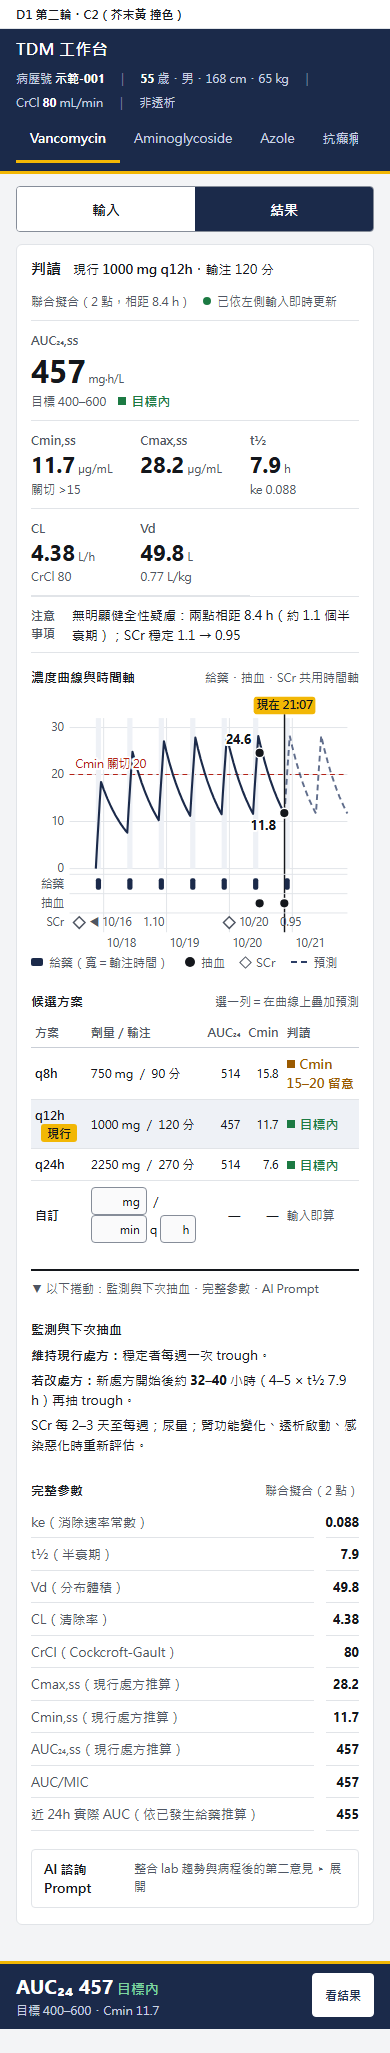
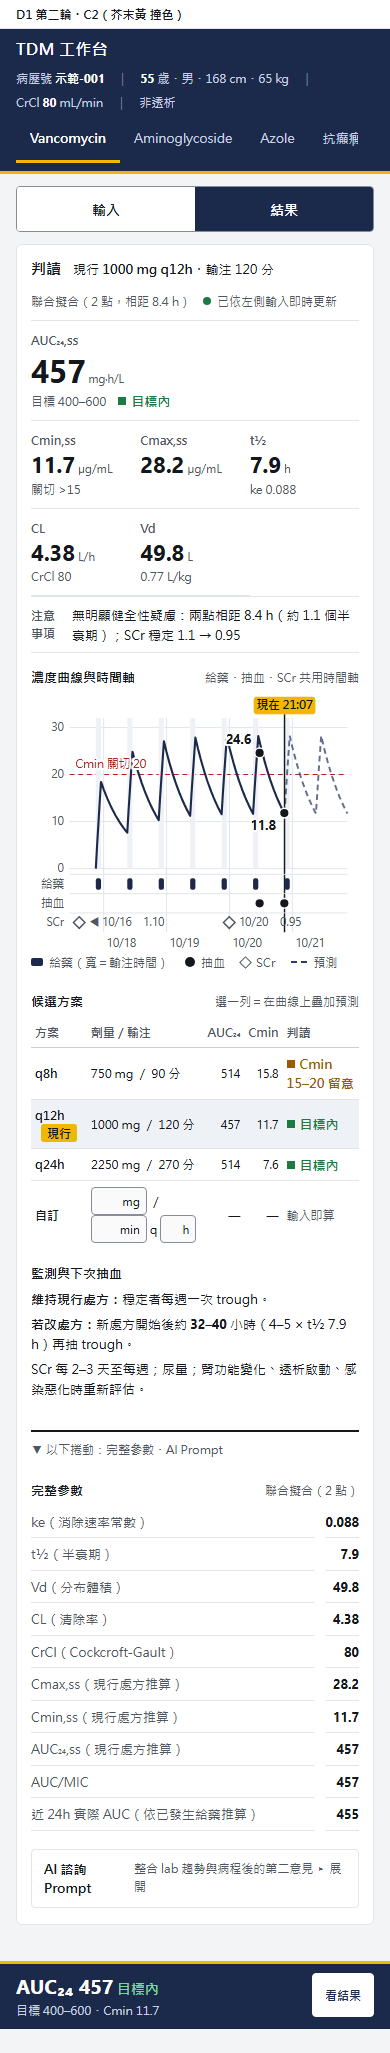
REDESIGN D1 第二輪：C2 以 24 吋（1920×1080）為主要目標
- 寬度 ≥1600 時曲線與候選方案並排，監測與下次抽血進到首屏
- 新增 1920×940 截圖；PRODUCT.md 改正主要螢幕為 24 吋

Changed region(s): [[0.0615, 0.5923, 0.8923, 0.717], [0.8923, 0.6858, 0.9231, 0.717]]

diff --git a/docs/direction/C2a.html b/docs/direction/C2a.html
@@ -134,6 +134,16 @@ p.tx{font-size:13px;margin-bottom:6px}
 .chart .dose{fill:var(--navy)}
 .chart .scr{fill:#fff;stroke:var(--ink-soft);stroke-width:1.5}
 
+.wide{display:none}
+/* ---- 24 吋（1920×1080）為主要目標：版面用滿寬度，曲線與候選方案並排 ---- */
+@media (min-width:1600px){
+  .app{max-width:1920px;grid-template-columns:540px minmax(0,1fr);gap:28px}
+  .pair{display:grid;grid-template-columns:minmax(0,1.15fr) minmax(0,1fr);gap:28px;align-items:start}
+  .tbl td.t{white-space:nowrap}
+  .dsk{display:none}.wide{display:block}
+  .nums .key .v{font-size:38px}
+  .nums .v{font-size:24px}
+}
 .seg,.m-bar{display:none}
 @media (max-width:980px){
   .app{grid-template-columns:minmax(0,1fr);padding:16px}
@@ -223,7 +233,7 @@ p.tx{font-size:13px;margin-bottom:6px}
     <div><div class="l">Vd</div><div class="v">49.8<small>L</small></div><div class="t">0.77 L/kg</div></div>
   </div>
   <div class="flagline"><b>注意事項</b><span>無明顯健全性疑慮：兩點相距 8.4 h（約 1.1 個半衰期）；SCr 穩定 1.1 → 0.95</span></div>
-  <div class="sec"><h4>濃度曲線與時間軸<span>給藥・抽血・SCr 共用時間軸</span></h4>
+  <div class="pair"><div class="sec"><h4>濃度曲線與時間軸<span>給藥・抽血・SCr 共用時間軸</span></h4>
     <div class="dsk"><svg class="chart" viewBox="0 0 820 268" width="100%" role="img" aria-label="濃度－時間曲線與給藥、抽血、SCr 時間軸">
 <line class="grid" x1="134.2" x2="134.2" y1="26" y2="248"/>
 <text class="ax" x="134.2" y="263" dx="3">10/18</text>
@@ -278,6 +288,60 @@ p.tx{font-size:13px;margin-bottom:6px}
 <text class="ax" x="50.0" y="242.0" dx="10">◀ 10/16　1.10</text>
 <path class="scr" d="M481.2 232.0 l6 6 l-6 6 l-6 -6 z"/>
 <text class="ax" x="481.2" y="242.0" dx="10">10/20　0.95</text>
+</svg></div><div class="wide"><svg class="chart" viewBox="0 0 656 300" width="100%" role="img" aria-label="濃度－時間曲線與給藥、抽血、SCr 時間軸">
+<line class="grid" x1="114.1" x2="114.1" y1="26" y2="280"/>
+<text class="ax" x="114.1" y="295" dx="3">10/18</text>
+<line class="grid" x1="250.8" x2="250.8" y1="26" y2="280"/>
+<text class="ax" x="250.8" y="295" dx="3">10/19</text>
+<line class="grid" x1="387.6" x2="387.6" y1="26" y2="280"/>
+<text class="ax" x="387.6" y="295" dx="3">10/20</text>
+<line class="grid" x1="524.3" x2="524.3" y1="26" y2="280"/>
+<text class="ax" x="524.3" y="295" dx="3">10/21</text>
+<line class="grid" x1="40" x2="644" y1="214.0" y2="214.0"/>
+<text class="ax" x="34" y="218.0" text-anchor="end">0</text>
+<line class="grid" x1="40" x2="644" y1="155.2" y2="155.2"/>
+<text class="ax" x="34" y="159.2" text-anchor="end">10</text>
+<line class="grid" x1="40" x2="644" y1="96.5" y2="96.5"/>
+<text class="ax" x="34" y="100.5" text-anchor="end">20</text>
+<line class="grid" x1="40" x2="644" y1="37.8" y2="37.8"/>
+<text class="ax" x="34" y="41.8" text-anchor="end">30</text>
+<line class="ref" x1="40" x2="644" y1="96.5" y2="96.5"/>
+<rect class="inf" x="97.0" y="26" width="11.4" height="188.0"/>
+<rect class="inf" x="165.4" y="26" width="11.4" height="188.0"/>
+<rect class="inf" x="233.7" y="26" width="11.4" height="188.0"/>
+<rect class="inf" x="302.1" y="26" width="11.4" height="188.0"/>
+<rect class="inf" x="370.5" y="26" width="11.4" height="188.0"/>
+<rect class="inf" x="438.9" y="26" width="11.4" height="188.0"/>
+<rect class="inf" x="507.2" y="26" width="11.4" height="188.0"/>
+<polyline class="curve" points="97.0,214.0 99.8,185.1 102.7,157.5 105.5,131.1 108.4,105.8 111.2,110.5 114.1,114.9 116.9,119.2 119.8,123.3 122.6,127.2 125.5,130.9 128.3,134.5 131.2,137.9 134.0,141.2 136.9,144.3 139.7,147.3 142.6,150.2 145.4,152.9 148.3,155.6 151.1,158.1 154.0,160.5 156.8,162.8 159.7,165.0 162.5,167.1 165.4,169.1 168.2,142.2 171.1,116.4 173.9,91.8 176.8,68.2 179.6,74.4 182.5,80.4 185.3,86.2 188.2,91.7 191.0,97.0 193.8,102.0 196.7,106.8 199.5,111.4 202.4,115.8 205.2,120.1 208.1,124.1 210.9,128.0 213.8,131.7 216.6,135.2 219.5,138.6 222.3,141.8 225.2,144.9 228.0,147.9 230.9,150.8 233.7,153.5 236.6,127.2 239.4,102.1 242.3,78.1 245.1,55.1 248.0,61.9 250.8,68.4 253.7,74.7 256.5,80.7 259.4,86.4 262.2,91.9 265.1,97.2 267.9,102.2 270.8,107.0 273.6,111.6 276.5,116.0 279.3,120.2 282.2,124.3 285.0,128.1 287.9,131.8 290.7,135.4 293.6,138.7 296.4,142.0 299.3,145.1 302.1,148.0 305.0,122.0 307.8,97.1 310.7,73.3 313.5,50.5 316.4,57.5 319.2,64.3 322.1,70.7 324.9,76.9 327.8,82.8 330.6,88.4 333.5,93.8 336.3,99.0 339.2,103.9 342.0,108.7 344.8,113.2 347.7,117.5 350.5,121.7 353.4,125.7 356.2,129.5 359.1,133.1 361.9,136.6 364.8,139.9 367.6,143.1 370.5,146.2 373.3,120.2 376.2,95.4 379.0,71.6 381.9,48.9 384.7,56.0 387.6,62.8 390.4,69.3 393.3,75.5 396.1,81.5 399.0,87.2 401.8,92.7 404.7,97.9 407.5,102.9 410.4,107.7 413.2,112.2 416.1,116.6 418.9,120.8 421.8,124.8 424.6,128.6 427.5,132.3 430.3,135.8 433.2,139.2 436.0,142.4 438.9,145.5 441.7,119.6 444.6,94.8 447.4,71.1 450.3,48.4 453.1,55.5 456.0,62.3 458.8,68.8 461.7,75.1 464.5,81.1 467.4,86.8 470.2,92.3 473.1,97.5 475.9,102.5 478.8,107.3 481.6,111.9 484.5,116.3 487.3,120.5 490.2,124.5 493.0,128.4 495.8,132.0 498.7,135.6 501.5,138.9 504.4,142.2 507.2,145.3"/>
+<polyline class="pred" points="507.2,145.3 510.1,119.4 512.9,94.6 515.8,70.9 518.6,48.2 521.5,55.3 524.3,62.1 527.2,68.7 530.0,74.9 532.9,80.9 535.7,86.6 538.6,92.1 541.4,97.4 544.3,102.4 547.1,107.2 550.0,111.8 552.8,116.2 555.7,120.4 558.5,124.4 561.4,128.3 564.2,131.9 567.1,135.5 569.9,138.9 572.8,142.1 575.6,145.2 578.5,119.3 581.3,94.5 584.2,70.8 587.0,48.1 589.9,55.2 592.7,62.1 595.6,68.6 598.4,74.9 601.3,80.9 604.1,86.6 607.0,92.1 609.8,97.3 612.7,102.3 615.5,107.1 618.4,111.7 621.2,116.1 624.1,120.3 626.9,124.4 629.8,128.2 632.6,131.9 635.5,135.4 638.3,138.8 641.2,142.1 644.0,145.2"/>
+<text class="reft" x="46" y="89.5">Cmin 關切 20</text>
+<line class="now" x1="507.2" x2="507.2" y1="22" y2="280"/>
+<rect class="nowchip" x="475.2" y="4" width="64" height="18" rx="3"/>
+<text class="nowt" x="507.2" y="17" text-anchor="middle">現在 21:07</text>
+<circle class="lvl" cx="453.1" cy="69.5" r="5"/>
+<text class="lvlt" x="444.1" y="60.5" text-anchor="end">24.6</text>
+<circle class="lvl" cx="506.8" cy="144.7" r="5"/>
+<text class="lvlt" x="497.8" y="162.7" text-anchor="end">11.8</text>
+<line class="grid" x1="40" x2="644" y1="220" y2="220"/>
+<text class="ax" x="34" y="234" text-anchor="end">給藥</text>
+<line class="grid" x1="40" x2="644" y1="240" y2="240"/>
+<text class="ax" x="34" y="254" text-anchor="end">抽血</text>
+<line class="grid" x1="40" x2="644" y1="260" y2="260"/>
+<text class="ax" x="34" y="274" text-anchor="end">SCr</text>
+<rect class="dose" x="97.0" y="224.0" width="11.4" height="12" rx="2"/>
+<rect class="dose" x="165.4" y="224.0" width="11.4" height="12" rx="2"/>
+<rect class="dose" x="233.7" y="224.0" width="11.4" height="12" rx="2"/>
+<rect class="dose" x="302.1" y="224.0" width="11.4" height="12" rx="2"/>
+<rect class="dose" x="370.5" y="224.0" width="11.4" height="12" rx="2"/>
+<rect class="dose" x="438.9" y="224.0" width="11.4" height="12" rx="2"/>
+<rect class="dose" x="507.2" y="224.0" width="11.4" height="12" rx="2"/>
+<circle class="lvl" cx="453.1" cy="250.0" r="5"/>
+<circle class="lvl" cx="506.8" cy="250.0" r="5"/>
+<path class="scr" d="M50.0 264.0 l6 6 l-6 6 l-6 -6 z"/>
+<text class="ax" x="50.0" y="274.0" dx="10">◀ 10/16　1.10</text>
+<path class="scr" d="M387.0 264.0 l6 6 l-6 6 l-6 -6 z"/>
+<text class="ax" x="387.0" y="274.0" dx="10">10/20　0.95</text>
 </svg></div><div class="mob" style="display:none"><svg class="chart" viewBox="0 0 340 268" width="100%" role="img" aria-label="濃度－時間曲線與給藥、抽血、SCr 時間軸">
 <line class="grid" x1="75.3" x2="75.3" y1="26" y2="248"/>
 <text class="ax" x="75.3" y="263" dx="3">10/18</text>
@@ -336,12 +400,12 @@ p.tx{font-size:13px;margin-bottom:6px}
     <div class="legend"><span><i class="lg-bar"></i>給藥（寬＝輸注時間）</span><span><i class="lg-dot"></i>抽血</span><span><i class="lg-dia"></i>SCr</span><span><i class="lg-dash"></i>預測</span></div></div>
   <div class="sec"><h4>候選方案<span>選一列＝在曲線上疊加預測</span></h4>
     <div style="overflow-x:auto"><table class="tbl"><tr><th>方案</th><th>劑量／輸注</th><th>AUC₂₄</th><th>Cmin</th><th class="hm">Cmax</th><th>判讀</th></tr><tr class=""><td class="t"><b>q8h</b></td><td class="t">750 mg ／ 90 分</td><td>514</td><td>15.8</td><td class="hm">27.9</td><td class="t"><span class="st caution">Cmin 15–20 留意</span></td></tr><tr class="cur"><td class="t"><b>q12h</b><span class="tag-cur">現行</span></td><td class="t">1000 mg ／ 120 分</td><td>457</td><td>11.7</td><td class="hm">28.2</td><td class="t"><span class="st ok">目標內</span></td></tr><tr class=""><td class="t"><b>q24h</b></td><td class="t">2250 mg ／ 270 分</td><td>514</td><td>7.6</td><td class="hm">42.4</td><td class="t"><span class="st ok">目標內</span></td></tr>
-      <tr class="custom"><td class="t"><b>自訂</b></td><td class="t"><span class="ci">mg</span> ／ <span class="ci">min</span> q <span class="ci" style="min-width:36px">h</span></td><td>—</td><td>—</td><td class="hm">—</td><td class="t" style="color:var(--ink-soft);font-size:12px">輸入即算</td></tr></table></div></div>
-  <div class="more"><span>▼ 以下捲動：監測與下次抽血・完整參數・AI Prompt</span><span>右邊面板可單獨捲動</span></div>
-  <div class="sec"><h4>監測與下次抽血</h4>
+      <tr class="custom"><td class="t"><b>自訂</b></td><td class="t"><span class="ci">mg</span> ／ <span class="ci">min</span> q <span class="ci" style="min-width:36px">h</span></td><td>—</td><td>—</td><td class="hm">—</td><td class="t" style="color:var(--ink-soft);font-size:12px">輸入即算</td></tr></table></div>
+  <div class="sec mon"><h4>監測與下次抽血</h4>
     <p class="tx"><b>維持現行處方：</b>穩定者每週一次 trough。</p>
     <p class="tx"><b>若改處方：</b>新處方開始後約 <b class="num">32–40</b> 小時（4–5 × t½ 7.9 h）再抽 trough。</p>
-    <p class="tx">SCr 每 2–3 天至每週；尿量；腎功能變化、透析啟動、感染惡化時重新評估。</p></div>
+    <p class="tx">SCr 每 2–3 天至每週；尿量；腎功能變化、透析啟動、感染惡化時重新評估。</p></div></div></div>
+  <div class="more"><span>▼ 以下捲動：完整參數・AI Prompt</span><span>右邊面板可單獨捲動</span></div>
   <div class="sec"><h4>完整參數<span>聯合擬合（2 點）</span></h4><dl class="defl"><div><dt>ke（消除速率常數）</dt><dd class="v">0.088</dd><dd class="u">hr⁻¹</dd></div><div><dt>t½（半衰期）</dt><dd class="v">7.9</dd><dd class="u">hr</dd></div><div><dt>Vd（分布體積）</dt><dd class="v">49.8</dd><dd class="u">L　0.77 L/kg</dd></div><div><dt>CL（清除率）</dt><dd class="v">4.38</dd><dd class="u">L/hr</dd></div><div><dt>CrCl（Cockcroft-Gault）</dt><dd class="v">80</dd><dd class="u">mL/min　IBW（Devine）</dd></div><div><dt>Cmax,ss（現行處方推算）</dt><dd class="v">28.2</dd><dd class="u">µg/mL</dd></div><div><dt>Cmin,ss（現行處方推算）</dt><dd class="v">11.7</dd><dd class="u">µg/mL</dd></div><div><dt>AUC₂₄,ss（現行處方推算）</dt><dd class="v">457</dd><dd class="u">mg·hr/L</dd></div><div><dt>AUC/MIC</dt><dd class="v">457</dd><dd class="u">MIC 假設 1</dd></div><div><dt>近 24h 實際 AUC（依已發生給藥推算）</dt><dd class="v">455</dd><dd class="u">mg·hr/L</dd></div></dl></div>
   <div class="acc"><b>AI 諮詢 Prompt</b><span>整合 lab 趨勢與病程後的第二意見 ▸ 展開</span></div>
 </div></div></div></main><div class="m-bar"><div><span class="v">AUC₂₄ 457</span> <span class="ok">目標內</span><small>目標 400–600・Cmin 11.7</small></div><button class="btn">看結果</button></div><script>

diff --git a/docs/direction/C2b.html b/docs/direction/C2b.html
@@ -134,6 +134,16 @@ p.tx{font-size:13px;margin-bottom:6px}
 .chart .dose{fill:var(--navy)}
 .chart .scr{fill:#fff;stroke:var(--ink-soft);stroke-width:1.5}
 
+.wide{display:none}
+/* ---- 24 吋（1920×1080）為主要目標：版面用滿寬度，曲線與候選方案並排 ---- */
+@media (min-width:1600px){
+  .app{max-width:1920px;grid-template-columns:540px minmax(0,1fr);gap:28px}
+  .pair{display:grid;grid-template-columns:minmax(0,1.15fr) minmax(0,1fr);gap:28px;align-items:start}
+  .tbl td.t{white-space:nowrap}
+  .dsk{display:none}.wide{display:block}
+  .nums .key .v{font-size:38px}
+  .nums .v{font-size:24px}
+}
 .seg,.m-bar{display:none}
 @media (max-width:980px){
   .app{grid-template-columns:minmax(0,1fr);padding:16px}
@@ -223,7 +233,7 @@ p.tx{font-size:13px;margin-bottom:6px}
     <div><div class="l">Vd</div><div class="v">49.8<small>L</small></div><div class="t">0.77 L/kg</div></div>
   </div>
   <div class="flagline"><b>注意事項</b><span>無明顯健全性疑慮：兩點相距 8.4 h（約 1.1 個半衰期）；SCr 穩定 1.1 → 0.95</span></div>
-  <div class="sec"><h4>濃度曲線與時間軸<span>給藥・抽血・SCr 共用時間軸</span></h4>
+  <div class="pair"><div class="sec"><h4>濃度曲線與時間軸<span>給藥・抽血・SCr 共用時間軸</span></h4>
     <div class="dsk"><svg class="chart" viewBox="0 0 820 268" width="100%" role="img" aria-label="濃度－時間曲線與給藥、抽血、SCr 時間軸">
 <line class="grid" x1="134.2" x2="134.2" y1="26" y2="248"/>
 <text class="ax" x="134.2" y="263" dx="3">10/18</text>
@@ -278,6 +288,60 @@ p.tx{font-size:13px;margin-bottom:6px}
 <text class="ax" x="50.0" y="242.0" dx="10">◀ 10/16　1.10</text>
 <path class="scr" d="M481.2 232.0 l6 6 l-6 6 l-6 -6 z"/>
 <text class="ax" x="481.2" y="242.0" dx="10">10/20　0.95</text>
+</svg></div><div class="wide"><svg class="chart" viewBox="0 0 656 300" width="100%" role="img" aria-label="濃度－時間曲線與給藥、抽血、SCr 時間軸">
+<line class="grid" x1="114.1" x2="114.1" y1="26" y2="280"/>
+<text class="ax" x="114.1" y="295" dx="3">10/18</text>
+<line class="grid" x1="250.8" x2="250.8" y1="26" y2="280"/>
+<text class="ax" x="250.8" y="295" dx="3">10/19</text>
+<line class="grid" x1="387.6" x2="387.6" y1="26" y2="280"/>
+<text class="ax" x="387.6" y="295" dx="3">10/20</text>
+<line class="grid" x1="524.3" x2="524.3" y1="26" y2="280"/>
+<text class="ax" x="524.3" y="295" dx="3">10/21</text>
+<line class="grid" x1="40" x2="644" y1="214.0" y2="214.0"/>
+<text class="ax" x="34" y="218.0" text-anchor="end">0</text>
+<line class="grid" x1="40" x2="644" y1="155.2" y2="155.2"/>
+<text class="ax" x="34" y="159.2" text-anchor="end">10</text>
+<line class="grid" x1="40" x2="644" y1="96.5" y2="96.5"/>
+<text class="ax" x="34" y="100.5" text-anchor="end">20</text>
+<line class="grid" x1="40" x2="644" y1="37.8" y2="37.8"/>
+<text class="ax" x="34" y="41.8" text-anchor="end">30</text>
+<line class="ref" x1="40" x2="644" y1="96.5" y2="96.5"/>
+<rect class="inf" x="97.0" y="26" width="11.4" height="188.0"/>
+<rect class="inf" x="165.4" y="26" width="11.4" height="188.0"/>
+<rect class="inf" x="233.7" y="26" width="11.4" height="188.0"/>
+<rect class="inf" x="302.1" y="26" width="11.4" height="188.0"/>
+<rect class="inf" x="370.5" y="26" width="11.4" height="188.0"/>
+<rect class="inf" x="438.9" y="26" width="11.4" height="188.0"/>
+<rect class="inf" x="507.2" y="26" width="11.4" height="188.0"/>
+<polyline class="curve" points="97.0,214.0 99.8,185.1 102.7,157.5 105.5,131.1 108.4,105.8 111.2,110.5 114.1,114.9 116.9,119.2 119.8,123.3 122.6,127.2 125.5,130.9 128.3,134.5 131.2,137.9 134.0,141.2 136.9,144.3 139.7,147.3 142.6,150.2 145.4,152.9 148.3,155.6 151.1,158.1 154.0,160.5 156.8,162.8 159.7,165.0 162.5,167.1 165.4,169.1 168.2,142.2 171.1,116.4 173.9,91.8 176.8,68.2 179.6,74.4 182.5,80.4 185.3,86.2 188.2,91.7 191.0,97.0 193.8,102.0 196.7,106.8 199.5,111.4 202.4,115.8 205.2,120.1 208.1,124.1 210.9,128.0 213.8,131.7 216.6,135.2 219.5,138.6 222.3,141.8 225.2,144.9 228.0,147.9 230.9,150.8 233.7,153.5 236.6,127.2 239.4,102.1 242.3,78.1 245.1,55.1 248.0,61.9 250.8,68.4 253.7,74.7 256.5,80.7 259.4,86.4 262.2,91.9 265.1,97.2 267.9,102.2 270.8,107.0 273.6,111.6 276.5,116.0 279.3,120.2 282.2,124.3 285.0,128.1 287.9,131.8 290.7,135.4 293.6,138.7 296.4,142.0 299.3,145.1 302.1,148.0 305.0,122.0 307.8,97.1 310.7,73.3 313.5,50.5 316.4,57.5 319.2,64.3 322.1,70.7 324.9,76.9 327.8,82.8 330.6,88.4 333.5,93.8 336.3,99.0 339.2,103.9 342.0,108.7 344.8,113.2 347.7,117.5 350.5,121.7 353.4,125.7 356.2,129.5 359.1,133.1 361.9,136.6 364.8,139.9 367.6,143.1 370.5,146.2 373.3,120.2 376.2,95.4 379.0,71.6 381.9,48.9 384.7,56.0 387.6,62.8 390.4,69.3 393.3,75.5 396.1,81.5 399.0,87.2 401.8,92.7 404.7,97.9 407.5,102.9 410.4,107.7 413.2,112.2 416.1,116.6 418.9,120.8 421.8,124.8 424.6,128.6 427.5,132.3 430.3,135.8 433.2,139.2 436.0,142.4 438.9,145.5 441.7,119.6 444.6,94.8 447.4,71.1 450.3,48.4 453.1,55.5 456.0,62.3 458.8,68.8 461.7,75.1 464.5,81.1 467.4,86.8 470.2,92.3 473.1,97.5 475.9,102.5 478.8,107.3 481.6,111.9 484.5,116.3 487.3,120.5 490.2,124.5 493.0,128.4 495.8,132.0 498.7,135.6 501.5,138.9 504.4,142.2 507.2,145.3"/>
+<polyline class="pred" points="507.2,145.3 510.1,119.4 512.9,94.6 515.8,70.9 518.6,48.2 521.5,55.3 524.3,62.1 527.2,68.7 530.0,74.9 532.9,80.9 535.7,86.6 538.6,92.1 541.4,97.4 544.3,102.4 547.1,107.2 550.0,111.8 552.8,116.2 555.7,120.4 558.5,124.4 561.4,128.3 564.2,131.9 567.1,135.5 569.9,138.9 572.8,142.1 575.6,145.2 578.5,119.3 581.3,94.5 584.2,70.8 587.0,48.1 589.9,55.2 592.7,62.1 595.6,68.6 598.4,74.9 601.3,80.9 604.1,86.6 607.0,92.1 609.8,97.3 612.7,102.3 615.5,107.1 618.4,111.7 621.2,116.1 624.1,120.3 626.9,124.4 629.8,128.2 632.6,131.9 635.5,135.4 638.3,138.8 641.2,142.1 644.0,145.2"/>
+<text class="reft" x="46" y="89.5">Cmin 關切 20</text>
+<line class="now" x1="507.2" x2="507.2" y1="22" y2="280"/>
+<rect class="nowchip" x="475.2" y="4" width="64" height="18" rx="3"/>
+<text class="nowt" x="507.2" y="17" text-anchor="middle">現在 21:07</text>
+<circle class="lvl" cx="453.1" cy="69.5" r="5"/>
+<text class="lvlt" x="444.1" y="60.5" text-anchor="end">24.6</text>
+<circle class="lvl" cx="506.8" cy="144.7" r="5"/>
+<text class="lvlt" x="497.8" y="162.7" text-anchor="end">11.8</text>
+<line class="grid" x1="40" x2="644" y1="220" y2="220"/>
+<text class="ax" x="34" y="234" text-anchor="end">給藥</text>
+<line class="grid" x1="40" x2="644" y1="240" y2="240"/>
+<text class="ax" x="34" y="254" text-anchor="end">抽血</text>
+<line class="grid" x1="40" x2="644" y1="260" y2="260"/>
+<text class="ax" x="34" y="274" text-anchor="end">SCr</text>
+<rect class="dose" x="97.0" y="224.0" width="11.4" height="12" rx="2"/>
+<rect class="dose" x="165.4" y="224.0" width="11.4" height="12" rx="2"/>
+<rect class="dose" x="233.7" y="224.0" width="11.4" height="12" rx="2"/>
+<rect class="dose" x="302.1" y="224.0" width="11.4" height="12" rx="2"/>
+<rect class="dose" x="370.5" y="224.0" width="11.4" height="12" rx="2"/>
+<rect class="dose" x="438.9" y="224.0" width="11.4" height="12" rx="2"/>
+<rect class="dose" x="507.2" y="224.0" width="11.4" height="12" rx="2"/>
+<circle class="lvl" cx="453.1" cy="250.0" r="5"/>
+<circle class="lvl" cx="506.8" cy="250.0" r="5"/>
+<path class="scr" d="M50.0 264.0 l6 6 l-6 6 l-6 -6 z"/>
+<text class="ax" x="50.0" y="274.0" dx="10">◀ 10/16　1.10</text>
+<path class="scr" d="M387.0 264.0 l6 6 l-6 6 l-6 -6 z"/>
+<text class="ax" x="387.0" y="274.0" dx="10">10/20　0.95</text>
 </svg></div><div class="mob" style="display:none"><svg class="chart" viewBox="0 0 340 268" width="100%" role="img" aria-label="濃度－時間曲線與給藥、抽血、SCr 時間軸">
 <line class="grid" x1="75.3" x2="75.3" y1="26" y2="248"/>
 <text class="ax" x="75.3" y="263" dx="3">10/18</text>
@@ -336,12 +400,12 @@ p.tx{font-size:13px;margin-bottom:6px}
     <div class="legend"><span><i class="lg-bar"></i>給藥（寬＝輸注時間）</span><span><i class="lg-dot"></i>抽血</span><span><i class="lg-dia"></i>SCr</span><span><i class="lg-dash"></i>預測</span></div></div>
   <div class="sec"><h4>候選方案<span>選一列＝在曲線上疊加預測</span></h4>
     <div style="overflow-x:auto"><table class="tbl"><tr><th>方案</th><th>劑量／輸注</th><th>AUC₂₄</th><th>Cmin</th><th class="hm">Cmax</th><th>判讀</th></tr><tr class=""><td class="t"><b>q8h</b></td><td class="t">750 mg ／ 90 分</td><td>514</td><td>15.8</td><td class="hm">27.9</td><td class="t"><span class="st caution">Cmin 15–20 留意</span></td></tr><tr class="cur"><td class="t"><b>q12h</b><span class="tag-cur">現行</span></td><td class="t">1000 mg ／ 120 分</td><td>457</td><td>11.7</td><td class="hm">28.2</td><td class="t"><span class="st ok">目標內</span></td></tr><tr class=""><td class="t"><b>q24h</b></td><td class="t">2250 mg ／ 270 分</td><td>514</td><td>7.6</td><td class="hm">42.4</td><td class="t"><span class="st ok">目標內</span></td></tr>
-      <tr class="custom"><td class="t"><b>自訂</b></td><td class="t"><span class="ci">mg</span> ／ <span class="ci">min</span> q <span class="ci" style="min-width:36px">h</span></td><td>—</td><td>—</td><td class="hm">—</td><td class="t" style="color:var(--ink-soft);font-size:12px">輸入即算</td></tr></table></div></div>
-  <div class="more"><span>▼ 以下捲動：監測與下次抽血・完整參數・AI Prompt</span><span>右邊面板可單獨捲動</span></div>
-  <div class="sec"><h4>監測與下次抽血</h4>
+      <tr class="custom"><td class="t"><b>自訂</b></td><td class="t"><span class="ci">mg</span> ／ <span class="ci">min</span> q <span class="ci" style="min-width:36px">h</span></td><td>—</td><td>—</td><td class="hm">—</td><td class="t" style="color:var(--ink-soft);font-size:12px">輸入即算</td></tr></table></div>
+  <div class="sec mon"><h4>監測與下次抽血</h4>
     <p class="tx"><b>維持現行處方：</b>穩定者每週一次 trough。</p>
     <p class="tx"><b>若改處方：</b>新處方開始後約 <b class="num">32–40</b> 小時（4–5 × t½ 7.9 h）再抽 trough。</p>
-    <p class="tx">SCr 每 2–3 天至每週；尿量；腎功能變化、透析啟動、感染惡化時重新評估。</p></div>
+    <p class="tx">SCr 每 2–3 天至每週；尿量；腎功能變化、透析啟動、感染惡化時重新評估。</p></div></div></div>
+  <div class="more"><span>▼ 以下捲動：完整參數・AI Prompt</span><span>右邊面板可單獨捲動</span></div>
   <div class="sec"><h4>完整參數<span>聯合擬合（2 點）</span></h4><dl class="defl"><div><dt>ke（消除速率常數）</dt><dd class="v">0.088</dd><dd class="u">hr⁻¹</dd></div><div><dt>t½（半衰期）</dt><dd class="v">7.9</dd><dd class="u">hr</dd></div><div><dt>Vd（分布體積）</dt><dd class="v">49.8</dd><dd class="u">L　0.77 L/kg</dd></div><div><dt>CL（清除率）</dt><dd class="v">4.38</dd><dd class="u">L/hr</dd></div><div><dt>CrCl（Cockcroft-Gault）</dt><dd class="v">80</dd><dd class="u">mL/min　IBW（Devine）</dd></div><div><dt>Cmax,ss（現行處方推算）</dt><dd class="v">28.2</dd><dd class="u">µg/mL</dd></div><div><dt>Cmin,ss（現行處方推算）</dt><dd class="v">11.7</dd><dd class="u">µg/mL</dd></div><div><dt>AUC₂₄,ss（現行處方推算）</dt><dd class="v">457</dd><dd class="u">mg·hr/L</dd></div><div><dt>AUC/MIC</dt><dd class="v">457</dd><dd class="u">MIC 假設 1</dd></div><div><dt>近 24h 實際 AUC（依已發生給藥推算）</dt><dd class="v">455</dd><dd class="u">mg·hr/L</dd></div></dl></div>
   <div class="acc"><b>AI 諮詢 Prompt</b><span>整合 lab 趨勢與病程後的第二意見 ▸ 展開</span></div>
 </div></div></div></main><div class="m-bar"><div><span class="v">AUC₂₄ 457</span> <span class="ok">目標內</span><small>目標 400–600・Cmin 11.7</small></div><button class="btn">看結果</button></div><script>

diff --git a/docs/direction/C2c.html b/docs/direction/C2c.html
@@ -134,6 +134,16 @@ p.tx{font-size:13px;margin-bottom:6px}
 .chart .dose{fill:var(--navy)}
 .chart .scr{fill:#fff;stroke:var(--ink-soft);stroke-width:1.5}
 
+.wide{display:none}
+/* ---- 24 吋（1920×1080）為主要目標：版面用滿寬度，曲線與候選方案並排 ---- */
+@media (min-width:1600px){
+  .app{max-width:1920px;grid-template-columns:540px minmax(0,1fr);gap:28px}
+  .pair{display:grid;grid-template-columns:minmax(0,1.15fr) minmax(0,1fr);gap:28px;align-items:start}
+  .tbl td.t{white-space:nowrap}
+  .dsk{display:none}.wide{display:block}
+  .nums .key .v{font-size:38px}
+  .nums .v{font-size:24px}
+}
 .seg,.m-bar{display:none}
 @media (max-width:980px){
   .app{grid-template-columns:minmax(0,1fr);padding:16px}
@@ -223,7 +233,7 @@ p.tx{font-size:13px;margin-bottom:6px}
     <div><div class="l">Vd</div><div class="v">49.8<small>L</small></div><div class="t">0.77 L/kg</div></div>
   </div>
   <div class="flagline"><b>注意事項</b><span>無明顯健全性疑慮：兩點相距 8.4 h（約 1.1 個半衰期）；SCr 穩定 1.1 → 0.95</span></div>
-  <div class="sec"><h4>濃度曲線與時間軸<span>給藥・抽血・SCr 共用時間軸</span></h4>
+  <div class="pair"><div class="sec"><h4>濃度曲線與時間軸<span>給藥・抽血・SCr 共用時間軸</span></h4>
     <div class="dsk"><svg class="chart" viewBox="0 0 820 268" width="100%" role="img" aria-label="濃度－時間曲線與給藥、抽血、SCr 時間軸">
 <line class="grid" x1="134.2" x2="134.2" y1="26" y2="248"/>
 <text class="ax" x="134.2" y="263" dx="3">10/18</text>
@@ -278,6 +288,60 @@ p.tx{font-size:13px;margin-bottom:6px}
 <text class="ax" x="50.0" y="242.0" dx="10">◀ 10/16　1.10</text>
 <path class="scr" d="M481.2 232.0 l6 6 l-6 6 l-6 -6 z"/>
 <text class="ax" x="481.2" y="242.0" dx="10">10/20　0.95</text>
+</svg></div><div class="wide"><svg class="chart" viewBox="0 0 656 300" width="100%" role="img" aria-label="濃度－時間曲線與給藥、抽血、SCr 時間軸">
+<line class="grid" x1="114.1" x2="114.1" y1="26" y2="280"/>
+<text class="ax" x="114.1" y="295" dx="3">10/18</text>
+<line class="grid" x1="250.8" x2="250.8" y1="26" y2="280"/>
+<text class="ax" x="250.8" y="295" dx="3">10/19</text>
+<line class="grid" x1="387.6" x2="387.6" y1="26" y2="280"/>
+<text class="ax" x="387.6" y="295" dx="3">10/20</text>
+<line class="grid" x1="524.3" x2="524.3" y1="26" y2="280"/>
+<text class="ax" x="524.3" y="295" dx="3">10/21</text>
+<line class="grid" x1="40" x2="644" y1="214.0" y2="214.0"/>
+<text class="ax" x="34" y="218.0" text-anchor="end">0</text>
+<line class="grid" x1="40" x2="644" y1="155.2" y2="155.2"/>
+<text class="ax" x="34" y="159.2" text-anchor="end">10</text>
+<line class="grid" x1="40" x2="644" y1="96.5" y2="96.5"/>
+<text class="ax" x="34" y="100.5" text-anchor="end">20</text>
+<line class="grid" x1="40" x2="644" y1="37.8" y2="37.8"/>
+<text class="ax" x="34" y="41.8" text-anchor="end">30</text>
+<line class="ref" x1="40" x2="644" y1="96.5" y2="96.5"/>
+<rect class="inf" x="97.0" y="26" width="11.4" height="188.0"/>
+<rect class="inf" x="165.4" y="26" width="11.4" height="188.0"/>
+<rect class="inf" x="233.7" y="26" width="11.4" height="188.0"/>
+<rect class="inf" x="302.1" y="26" width="11.4" height="188.0"/>
+<rect class="inf" x="370.5" y="26" width="11.4" height="188.0"/>
+<rect class="inf" x="438.9" y="26" width="11.4" height="188.0"/>
+<rect class="inf" x="507.2" y="26" width="11.4" height="188.0"/>
+<polyline class="curve" points="97.0,214.0 99.8,185.1 102.7,157.5 105.5,131.1 108.4,105.8 111.2,110.5 114.1,114.9 116.9,119.2 119.8,123.3 122.6,127.2 125.5,130.9 128.3,134.5 131.2,137.9 134.0,141.2 136.9,144.3 139.7,147.3 142.6,150.2 145.4,152.9 148.3,155.6 151.1,158.1 154.0,160.5 156.8,162.8 159.7,165.0 162.5,167.1 165.4,169.1 168.2,142.2 171.1,116.4 173.9,91.8 176.8,68.2 179.6,74.4 182.5,80.4 185.3,86.2 188.2,91.7 191.0,97.0 193.8,102.0 196.7,106.8 199.5,111.4 202.4,115.8 205.2,120.1 208.1,124.1 210.9,128.0 213.8,131.7 216.6,135.2 219.5,138.6 222.3,141.8 225.2,144.9 228.0,147.9 230.9,150.8 233.7,153.5 236.6,127.2 239.4,102.1 242.3,78.1 245.1,55.1 248.0,61.9 250.8,68.4 253.7,74.7 256.5,80.7 259.4,86.4 262.2,91.9 265.1,97.2 267.9,102.2 270.8,107.0 273.6,111.6 276.5,116.0 279.3,120.2 282.2,124.3 285.0,128.1 287.9,131.8 290.7,135.4 293.6,138.7 296.4,142.0 299.3,145.1 302.1,148.0 305.0,122.0 307.8,97.1 310.7,73.3 313.5,50.5 316.4,57.5 319.2,64.3 322.1,70.7 324.9,76.9 327.8,82.8 330.6,88.4 333.5,93.8 336.3,99.0 339.2,103.9 342.0,108.7 344.8,113.2 347.7,117.5 350.5,121.7 353.4,125.7 356.2,129.5 359.1,133.1 361.9,136.6 364.8,139.9 367.6,143.1 370.5,146.2 373.3,120.2 376.2,95.4 379.0,71.6 381.9,48.9 384.7,56.0 387.6,62.8 390.4,69.3 393.3,75.5 396.1,81.5 399.0,87.2 401.8,92.7 404.7,97.9 407.5,102.9 410.4,107.7 413.2,112.2 416.1,116.6 418.9,120.8 421.8,124.8 424.6,128.6 427.5,132.3 430.3,135.8 433.2,139.2 436.0,142.4 438.9,145.5 441.7,119.6 444.6,94.8 447.4,71.1 450.3,48.4 453.1,55.5 456.0,62.3 458.8,68.8 461.7,75.1 464.5,81.1 467.4,86.8 470.2,92.3 473.1,97.5 475.9,102.5 478.8,107.3 481.6,111.9 484.5,116.3 487.3,120.5 490.2,124.5 493.0,128.4 495.8,132.0 498.7,135.6 501.5,138.9 504.4,142.2 507.2,145.3"/>
+<polyline class="pred" points="507.2,145.3 510.1,119.4 512.9,94.6 515.8,70.9 518.6,48.2 521.5,55.3 524.3,62.1 527.2,68.7 530.0,74.9 532.9,80.9 535.7,86.6 538.6,92.1 541.4,97.4 544.3,102.4 547.1,107.2 550.0,111.8 552.8,116.2 555.7,120.4 558.5,124.4 561.4,128.3 564.2,131.9 567.1,135.5 569.9,138.9 572.8,142.1 575.6,145.2 578.5,119.3 581.3,94.5 584.2,70.8 587.0,48.1 589.9,55.2 592.7,62.1 595.6,68.6 598.4,74.9 601.3,80.9 604.1,86.6 607.0,92.1 609.8,97.3 612.7,102.3 615.5,107.1 618.4,111.7 621.2,116.1 624.1,120.3 626.9,124.4 629.8,128.2 632.6,131.9 635.5,135.4 638.3,138.8 641.2,142.1 644.0,145.2"/>
+<text class="reft" x="46" y="89.5">Cmin 關切 20</text>
+<line class="now" x1="507.2" x2="507.2" y1="22" y2="280"/>
+<rect class="nowchip" x="475.2" y="4" width="64" height="18" rx="3"/>
+<text class="nowt" x="507.2" y="17" text-anchor="middle">現在 21:07</text>
+<circle class="lvl" cx="453.1" cy="69.5" r="5"/>
+<text class="lvlt" x="444.1" y="60.5" text-anchor="end">24.6</text>
+<circle class="lvl" cx="506.8" cy="144.7" r="5"/>
+<text class="lvlt" x="497.8" y="162.7" text-anchor="end">11.8</text>
+<line class="grid" x1="40" x2="644" y1="220" y2="220"/>
+<text class="ax" x="34" y="234" text-anchor="end">給藥</text>
+<line class="grid" x1="40" x2="644" y1="240" y2="240"/>
+<text class="ax" x="34" y="254" text-anchor="end">抽血</text>
+<line class="grid" x1="40" x2="644" y1="260" y2="260"/>
+<text class="ax" x="34" y="274" text-anchor="end">SCr</text>
+<rect class="dose" x="97.0" y="224.0" width="11.4" height="12" rx="2"/>
+<rect class="dose" x="165.4" y="224.0" width="11.4" height="12" rx="2"/>
+<rect class="dose" x="233.7" y="224.0" width="11.4" height="12" rx="2"/>
+<rect class="dose" x="302.1" y="224.0" width="11.4" height="12" rx="2"/>
+<rect class="dose" x="370.5" y="224.0" width="11.4" height="12" rx="2"/>
+<rect class="dose" x="438.9" y="224.0" width="11.4" height="12" rx="2"/>
+<rect class="dose" x="507.2" y="224.0" width="11.4" height="12" rx="2"/>
+<circle class="lvl" cx="453.1" cy="250.0" r="5"/>
+<circle class="lvl" cx="506.8" cy="250.0" r="5"/>
+<path class="scr" d="M50.0 264.0 l6 6 l-6 6 l-6 -6 z"/>
+<text class="ax" x="50.0" y="274.0" dx="10">◀ 10/16　1.10</text>
+<path class="scr" d="M387.0 264.0 l6 6 l-6 6 l-6 -6 z"/>
+<text class="ax" x="387.0" y="274.0" dx="10">10/20　0.95</text>
 </svg></div><div class="mob" style="display:none"><svg class="chart" viewBox="0 0 340 268" width="100%" role="img" aria-label="濃度－時間曲線與給藥、抽血、SCr 時間軸">
 <line class="grid" x1="75.3" x2="75.3" y1="26" y2="248"/>
 <text class="ax" x="75.3" y="263" dx="3">10/18</text>
@@ -336,12 +400,12 @@ p.tx{font-size:13px;margin-bottom:6px}
     <div class="legend"><span><i class="lg-bar"></i>給藥（寬＝輸注時間）</span><span><i class="lg-dot"></i>抽血</span><span><i class="lg-dia"></i>SCr</span><span><i class="lg-dash"></i>預測</span></div></div>
   <div class="sec"><h4>候選方案<span>選一列＝在曲線上疊加預測</span></h4>
     <div style="overflow-x:auto"><table class="tbl"><tr><th>方案</th><th>劑量／輸注</th><th>AUC₂₄</th><th>Cmin</th><th class="hm">Cmax</th><th>判讀</th></tr><tr class=""><td class="t"><b>q8h</b></td><td class="t">750 mg ／ 90 分</td><td>514</td><td>15.8</td><td class="hm">27.9</td><td class="t"><span class="st caution">Cmin 15–20 留意</span></td></tr><tr class="cur"><td class="t"><b>q12h</b><span class="tag-cur">現行</span></td><td class="t">1000 mg ／ 120 分</td><td>457</td><td>11.7</td><td class="hm">28.2</td><td class="t"><span class="st ok">目標內</span></td></tr><tr class=""><td class="t"><b>q24h</b></td><td class="t">2250 mg ／ 270 分</td><td>514</td><td>7.6</td><td class="hm">42.4</td><td class="t"><span class="st ok">目標內</span></td></tr>
-      <tr class="custom"><td class="t"><b>自訂</b></td><td class="t"><span class="ci">mg</span> ／ <span class="ci">min</span> q <span class="ci" style="min-width:36px">h</span></td><td>—</td><td>—</td><td class="hm">—</td><td class="t" style="color:var(--ink-soft);font-size:12px">輸入即算</td></tr></table></div></div>
-  <div class="more"><span>▼ 以下捲動：監測與下次抽血・完整參數・AI Prompt</span><span>右邊面板可單獨捲動</span></div>
-  <div class="sec"><h4>監測與下次抽血</h4>
+      <tr class="custom"><td class="t"><b>自訂</b></td><td class="t"><span class="ci">mg</span> ／ <span class="ci">min</span> q <span class="ci" style="min-width:36px">h</span></td><td>—</td><td>—</td><td class="hm">—</td><td class="t" style="color:var(--ink-soft);font-size:12px">輸入即算</td></tr></table></div>
+  <div class="sec mon"><h4>監測與下次抽血</h4>
     <p class="tx"><b>維持現行處方：</b>穩定者每週一次 trough。</p>
     <p class="tx"><b>若改處方：</b>新處方開始後約 <b class="num">32–40</b> 小時（4–5 × t½ 7.9 h）再抽 trough。</p>
-    <p class="tx">SCr 每 2–3 天至每週；尿量；腎功能變化、透析啟動、感染惡化時重新評估。</p></div>
+    <p class="tx">SCr 每 2–3 天至每週；尿量；腎功能變化、透析啟動、感染惡化時重新評估。</p></div></div></div>
+  <div class="more"><span>▼ 以下捲動：完整參數・AI Prompt</span><span>右邊面板可單獨捲動</span></div>
   <div class="sec"><h4>完整參數<span>聯合擬合（2 點）</span></h4><dl class="defl"><div><dt>ke（消除速率常數）</dt><dd class="v">0.088</dd><dd class="u">hr⁻¹</dd></div><div><dt>t½（半衰期）</dt><dd class="v">7.9</dd><dd class="u">hr</dd></div><div><dt>Vd（分布體積）</dt><dd class="v">49.8</dd><dd class="u">L　0.77 L/kg</dd></div><div><dt>CL（清除率）</dt><dd class="v">4.38</dd><dd class="u">L/hr</dd></div><div><dt>CrCl（Cockcroft-Gault）</dt><dd class="v">80</dd><dd class="u">mL/min　IBW（Devine）</dd></div><div><dt>Cmax,ss（現行處方推算）</dt><dd class="v">28.2</dd><dd class="u">µg/mL</dd></div><div><dt>Cmin,ss（現行處方推算）</dt><dd class="v">11.7</dd><dd class="u">µg/mL</dd></div><div><dt>AUC₂₄,ss（現行處方推算）</dt><dd class="v">457</dd><dd class="u">mg·hr/L</dd></div><div><dt>AUC/MIC</dt><dd class="v">457</dd><dd class="u">MIC 假設 1</dd></div><div><dt>近 24h 實際 AUC（依已發生給藥推算）</dt><dd class="v">455</dd><dd class="u">mg·hr/L</dd></div></dl></div>
   <div class="acc"><b>AI 諮詢 Prompt</b><span>整合 lab 趨勢與病程後的第二意見 ▸ 展開</span></div>
 </div></div></div></main><div class="m-bar"><div><span class="v">AUC₂₄ 457</span> <span class="ok">目標內</span><small>目標 400–600・Cmin 11.7</small></div><button class="btn">看結果</button></div><script>

diff --git a/docs/direction/src/boards2.py b/docs/direction/src/boards2.py
@@ -205,6 +205,16 @@ p.tx{font-size:13px;margin-bottom:6px}
 .chart .dose{fill:var(--navy)}
 .chart .scr{fill:#fff;stroke:var(--ink-soft);stroke-width:1.5}
 
+.wide{display:none}
+/* ---- 24 吋（1920×1080）為主要目標：版面用滿寬度，曲線與候選方案並排 ---- */
+@media (min-width:1600px){
+  .app{max-width:1920px;grid-template-columns:540px minmax(0,1fr);gap:28px}
+  .pair{display:grid;grid-template-columns:minmax(0,1.15fr) minmax(0,1fr);gap:28px;align-items:start}
+  .tbl td.t{white-space:nowrap}
+  .dsk{display:none}.wide{display:block}
+  .nums .key .v{font-size:38px}
+  .nums .v{font-size:24px}
+}
 .seg,.m-bar{display:none}
 @media (max-width:980px){
   .app{grid-template-columns:minmax(0,1fr);padding:16px}
@@ -307,17 +317,17 @@ def panel():
     <div><div class="l">Vd</div><div class="v">49.8<small>L</small></div><div class="t">0.77 L/kg</div></div>
   </div>
   <div class="flagline"><b>注意事項</b><span>無明顯健全性疑慮：兩點相距 8.4 h（約 1.1 個半衰期）；SCr 穩定 1.1 → 0.95</span></div>
-  <div class="sec"><h4>濃度曲線與時間軸<span>給藥・抽血・SCr 共用時間軸</span></h4>
-    <div class="dsk">{chart2(820, 268)}</div><div class="mob" style="display:none">{chart2(340, 268)}</div>
+  <div class="pair"><div class="sec"><h4>濃度曲線與時間軸<span>給藥・抽血・SCr 共用時間軸</span></h4>
+    <div class="dsk">{chart2(820, 268)}</div><div class="wide">{chart2(656, 300)}</div><div class="mob" style="display:none">{chart2(340, 268)}</div>
     <div class="legend"><span><i class="lg-bar"></i>給藥（寬＝輸注時間）</span><span><i class="lg-dot"></i>抽血</span><span><i class="lg-dia"></i>SCr</span><span><i class="lg-dash"></i>預測</span></div></div>
   <div class="sec"><h4>候選方案<span>選一列＝在曲線上疊加預測</span></h4>
     <div style="overflow-x:auto"><table class="tbl"><tr><th>方案</th><th>劑量／輸注</th><th>AUC₂₄</th><th>Cmin</th><th class="hm">Cmax</th><th>判讀</th></tr>{cand_rows}
-      <tr class="custom"><td class="t"><b>自訂</b></td><td class="t"><span class="ci">mg</span> ／ <span class="ci">min</span> q <span class="ci" style="min-width:36px">h</span></td><td>—</td><td>—</td><td class="hm">—</td><td class="t" style="color:var(--ink-soft);font-size:12px">輸入即算</td></tr></table></div></div>
-  <div class="more"><span>▼ 以下捲動：監測與下次抽血・完整參數・AI Prompt</span><span>右邊面板可單獨捲動</span></div>
-  <div class="sec"><h4>監測與下次抽血</h4>
+      <tr class="custom"><td class="t"><b>自訂</b></td><td class="t"><span class="ci">mg</span> ／ <span class="ci">min</span> q <span class="ci" style="min-width:36px">h</span></td><td>—</td><td>—</td><td class="hm">—</td><td class="t" style="color:var(--ink-soft);font-size:12px">輸入即算</td></tr></table></div>
+  <div class="sec mon"><h4>監測與下次抽血</h4>
     <p class="tx"><b>維持現行處方：</b>穩定者每週一次 trough。</p>
     <p class="tx"><b>若改處方：</b>新處方開始後約 <b class="num">32–40</b> 小時（4–5 × t½ 7.9 h）再抽 trough。</p>
-    <p class="tx">SCr 每 2–3 天至每週；尿量；腎功能變化、透析啟動、感染惡化時重新評估。</p></div>
+    <p class="tx">SCr 每 2–3 天至每週；尿量；腎功能變化、透析啟動、感染惡化時重新評估。</p></div></div></div>
+  <div class="more"><span>▼ 以下捲動：完整參數・AI Prompt</span><span>右邊面板可單獨捲動</span></div>
   <div class="sec"><h4>完整參數<span>聯合擬合（2 點）</span></h4><dl class="defl">{params}</dl></div>
   <div class="acc"><b>AI 諮詢 Prompt</b><span>整合 lab 趨勢與病程後的第二意見 ▸ 展開</span></div>
 </div></div>"""

diff --git a/docs/direction/src/shoot2.py b/docs/direction/src/shoot2.py
@@ -33,7 +33,10 @@ def mobile(page, h, full, out):
     if full: crop_bottom(out)
 
 for k in 'abc':
+    # 主要目標：24 吋 1920×1080，瀏覽器可用約 1920×940
+    edge(BASE + 'C2%s.html' % k, 1920, 940, os.path.join(SH, 'C2%s_24in_fold.png' % k))
     edge(BASE + 'C2%s.html' % k, 1440, 900, os.path.join(SH, 'C2%s_desktop_fold.png' % k))
+edge(BASE + 'C2a.html?rs=560', 1920, 940, os.path.join(SH, 'C2a_24in_rightscrolled.png'))
 edge(BASE + 'C2a.html?rs=600', 1440, 900, os.path.join(SH, 'C2a_desktop_rightscrolled.png'))
 # 「左邊捲下去、右邊仍固定」這個狀態無頭 Edge 畫不出來（sticky＋已捲動時合成錯誤），
 # shots/C2a_desktop_leftscrolled.jpg 是在一般瀏覽器 1440×900 實際捲動後截的（縮成 800 寬）。

diff --git a/docs/REDESIGN_PROGRESS_v1.md b/docs/REDESIGN_PROGRESS_v1.md
@@ -71,6 +71,7 @@
 - Brandon 回饋：(1) 目標帶尺等「重講數字的圖」沒用，藥師看數字就知道（已存成記憶 no-redundant-visual-aids）；(2) 綠色配色 AI 味重，要黑白灰＋深藍＋大膽撞色、優雅有質感；(3) 右邊要固定在畫面上，不捲動就看到最重要的資訊、左邊輸入時即時看到變化，細節往下捲。
 - 做了 C2 三種撞色（芥末黃／朱紅／洋紅）。**這會推翻 D0 已核可的 DESIGN.md 配色**（藍綠主色、綠色 OK 底色），選定撞色後要先改 DESIGN.md 再做 D2。
 - 固定面板踩到的坑：`position:sticky` 要放在右欄外層 `.right`（它的父層 `.app` 跟左欄一樣高），放在 `.rp` 上不會黏，因為 `.rp` 的父層跟它一樣高。已在一般瀏覽器 1440×900 驗證：左邊捲到底時，右邊判讀數字、曲線、候選方案表都還在畫面內。
+- Brandon 追加（2026-10-21）：**以 24 吋螢幕（1920×1080）為最主要優化目標，手機其次**。C2 在 ≥1600 寬改成曲線與候選方案並排，首屏多了監測與下次抽血；並排時曲線另用 656 寬的畫布，文字才維持 ≥12 px。PRODUCT.md 的「桌機寬度通常 1440」已改正。之後各包的驗收截圖都以 1920×940 為主。
 - 芥末黃在白底只有 1.8:1，所以撞色一律當填色（配深色字）或放在深藍頂列上，不當白底上的細線。
 
 ### D1

diff --git a/docs/direction/README.md b/docs/direction/README.md
@@ -30,4 +30,6 @@ Brandon 看完第一輪：三張都不滿意，勉強選 C，回饋三點：
 - 撞色只出現在三個地方：頂列下緣一條線、候選方案表的「現行」標籤、曲線上的「現在」標籤。
 - 唯一保留的圖是濃度曲線加時間軸：它提供數字給不了的資訊（抽血時點相對給藥的位置）。
 
-截圖：`shots/C2*_desktop_fold.png`（三種撞色）、`C2a_desktop_rightscrolled.png`（右邊面板往下捲）、`C2a_desktop_leftscrolled.jpg`（左邊捲到底、右邊仍固定；在一般瀏覽器截的，無頭 Edge 畫不出這個狀態）、`C2a_mobile_*`。產生器：`src/boards2.py`、`src/shoot2.py`。
+**主要目標是 24 吋螢幕（1920×1080）**（Brandon 2026-10-21）：寬度 ≥1600 時曲線與候選方案並排，監測與下次抽血也進到不用捲動的範圍。
+
+截圖：`shots/C2*_24in_fold.png`（24 吋 1920×940，主要）、`C2a_24in_rightscrolled.png`、`shots/C2*_desktop_fold.png`（1440，三種撞色）、`C2a_desktop_rightscrolled.png`（右邊面板往下捲）、`C2a_desktop_leftscrolled.jpg`（左邊捲到底、右邊仍固定；在一般瀏覽器截的，無頭 Edge 畫不出這個狀態）、`C2a_mobile_*`。產生器：`src/boards2.py`、`src/shoot2.py`。

diff --git a/PRODUCT.md b/PRODUCT.md
@@ -27,7 +27,7 @@ web
 
 ## Operating Context
 
-- **地點與設備**：院內電腦、桌機為主；偶爾用手機查看結果（（推論）手機用來看，不是主要輸入端）。桌機瀏覽器寬度通常 1440 左右。
+- **地點與設備**：院內電腦、桌機為主，**主要優化目標是 24 吋螢幕（1920×1080，瀏覽器可用約 1920×940）**；手機其次，偶爾用來查看結果（Brandon 2026-10-21 確認）。
 - **流程**：輸入病人資料（年齡、性別、身高體重、SCr）→ 輸入處方並產生給藥紀錄 → 輸入濃度 → 看判讀（結論、候選方案、曲線、參數、注意事項）→ 選定方案 → 決定下次抽血。
 - **資料**：病人以病歷號存在這台電腦的瀏覽器裡（localStorage），每位病人可有多次評估（visit）；可匯出 JSON 備份。共用電腦要提醒使用者用完清除（L-F 已加一鍵清除）。
 - **輸出的去向**：目前靠藥師看畫面、自己寫會診紀錄；「把結果整理成純文字貼進 HIS」是之後要做的功能，格式需要 Brandon 提供 3 到 5 份去識別化的平常寫法（尚未提供）。另有「AI Prompt」區，把已算好的數值整理成給外部 AI 的提問稿。
